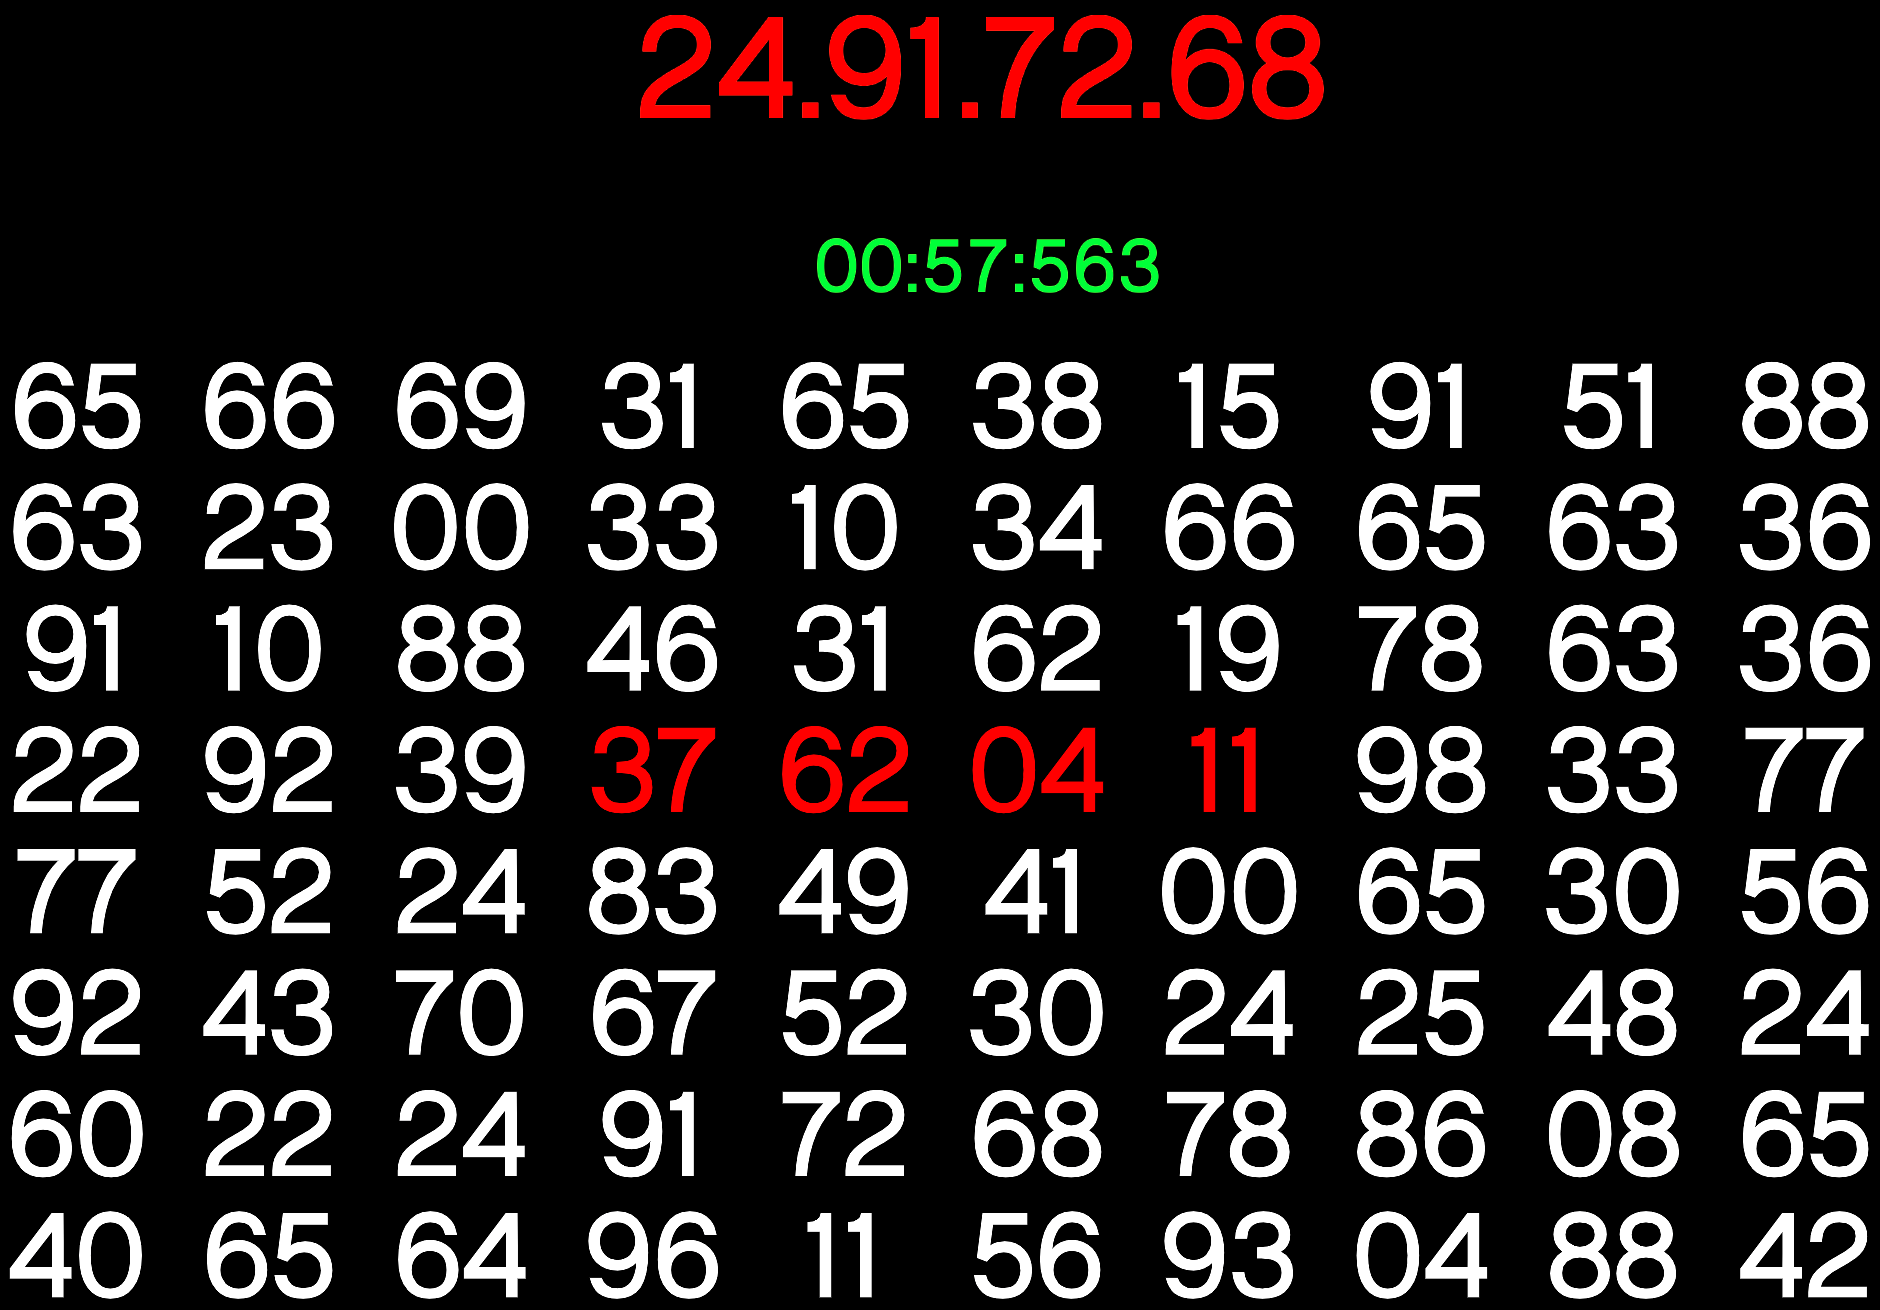
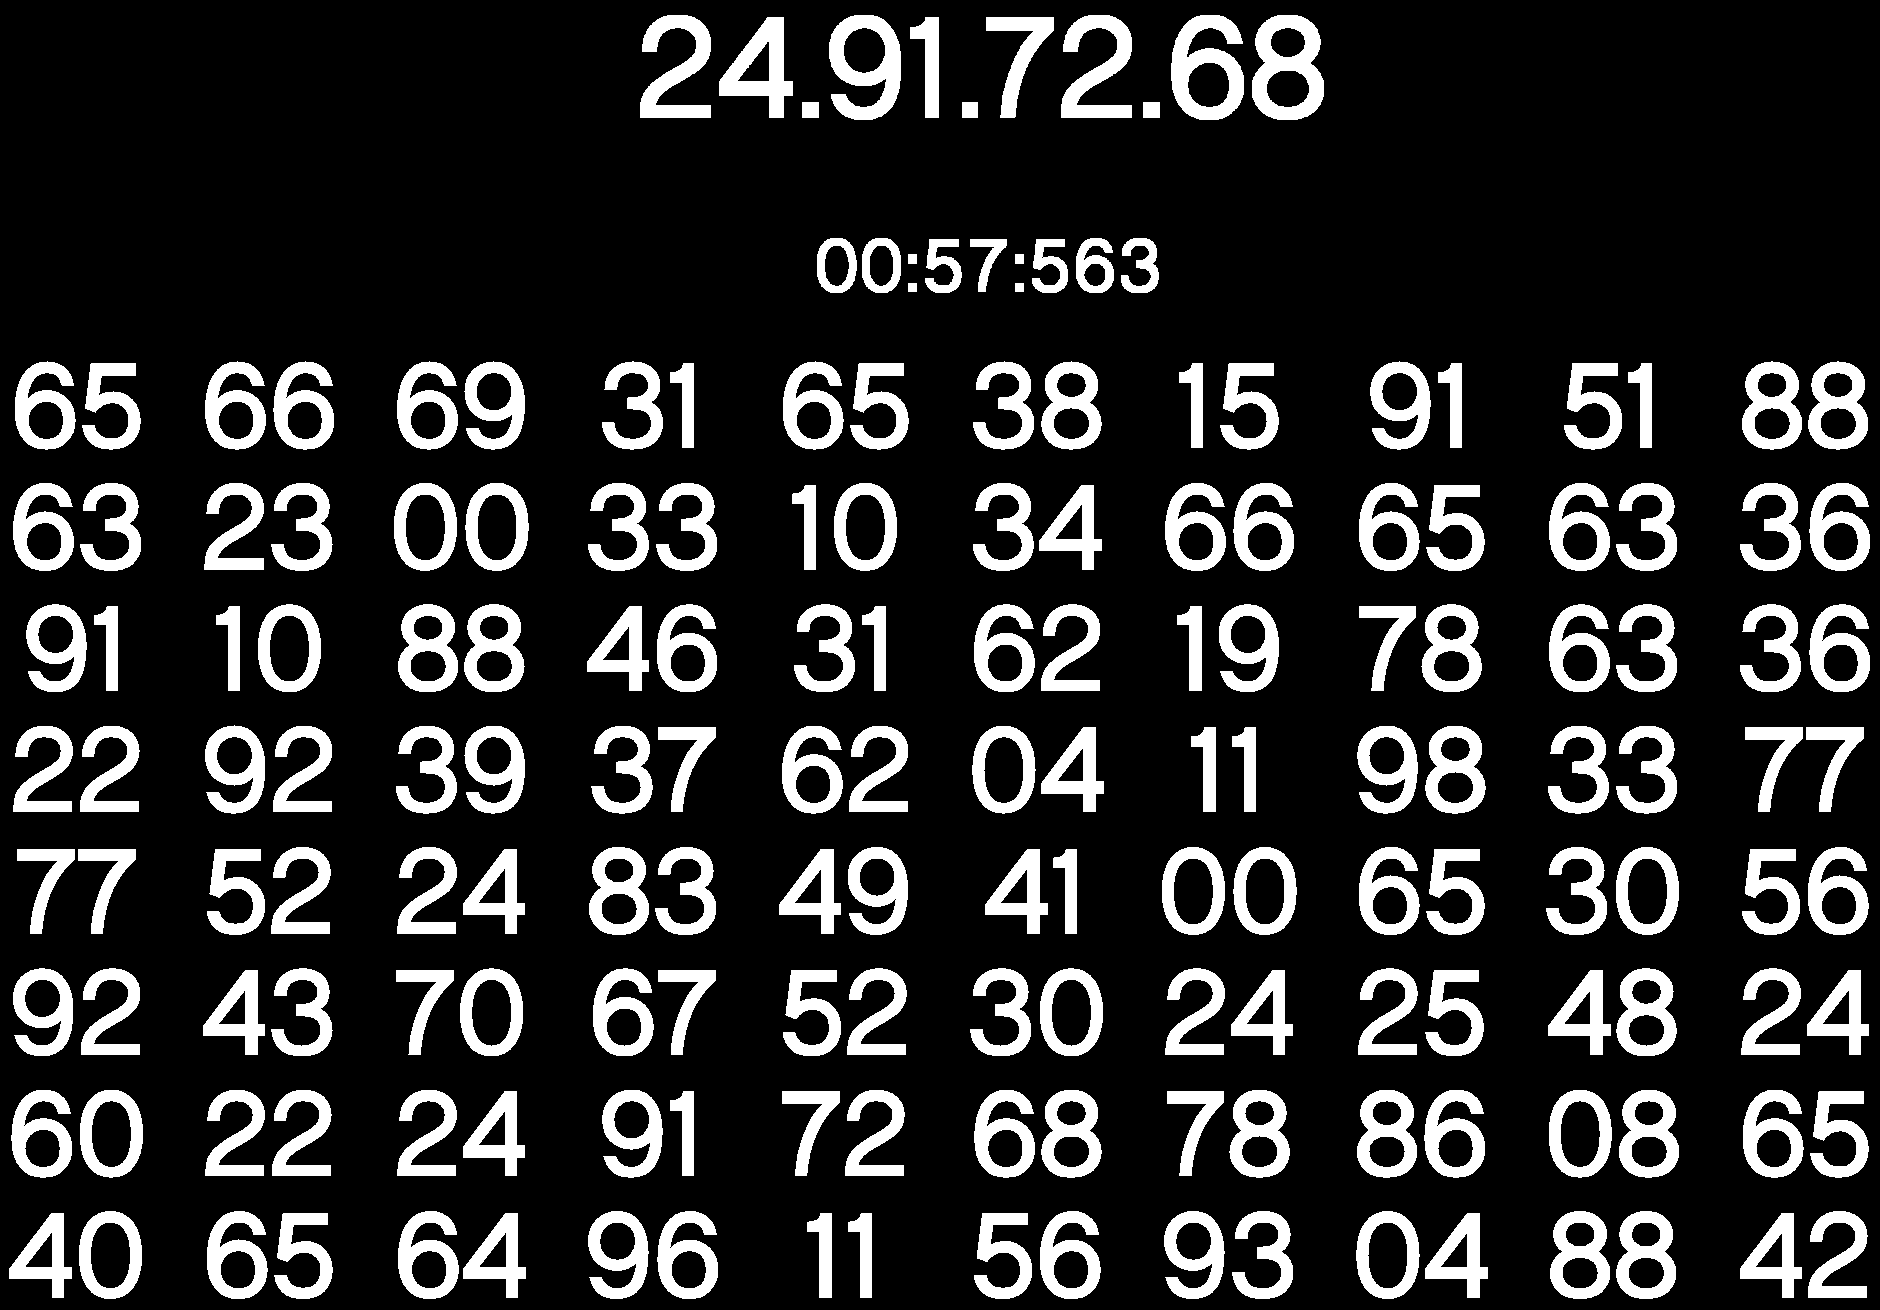
implemented frame_to_binary_image(). fixed grayscale handling in load_image_from_disk()

diff --git a/scripts/main.py b/scripts/main.py
@@ -9,7 +9,6 @@ import cv2
 import numpy as np
 from pathlib import Path
 
-
 class PuzzleSolver:
 
     camera = None
@@ -84,6 +83,19 @@ class PuzzleSolver:
 
         return region
 
+    """Converts a captured frame into binary image
+    """
+    def frame_to_binary_image(self):
+
+        is_grayscale = self.captured_frame.ndim == 2
+
+        # if grayscale convert immediatley, else convert to grayscale first
+        if not is_grayscale:
+            self.captured_frame = cv2.cvtColor(self.captured_frame, cv2.COLOR_RGB2GRAY)
+
+        self.captured_frame  = cv2.threshold(self.captured_frame,0,255,cv2.THRESH_BINARY)[1]
+
+
     """Testing function - displays the captured frame stored in the self.captured_frame variable
     """
     def display_captured_frame(self):
@@ -107,18 +119,21 @@ class PuzzleSolver:
 
         if ratios is not None:
 
-            height, width, channels = image.shape
+            height = None
+            width = None
+            channels = None
+
+            if grayscale:
+                height, width = image.shape
+            else:
+                height, width, channels = image.shape
 
             loaded_image_resolution  = {
                 "width": width, 
                 "height": height
             }
 
-            print(loaded_image_resolution)
-
             region = self.get_region(ratios, loaded_image_resolution)
-
-            print(region)
 
             x_start = region[0]
             y_start = region[1]
@@ -138,5 +153,6 @@ class PuzzleSolver:
 
 p = PuzzleSolver()
 p.load_image_from_disk(p.script_dir_path.parent / "gfx" / "puzzle" / "1.png",p.ratios,False)
+p.frame_to_binary_image()
 p.save_image_to_disk(p.script_dir_path.parent / "gfx" / "testing" / "1.png")
 p.display_captured_frame()
